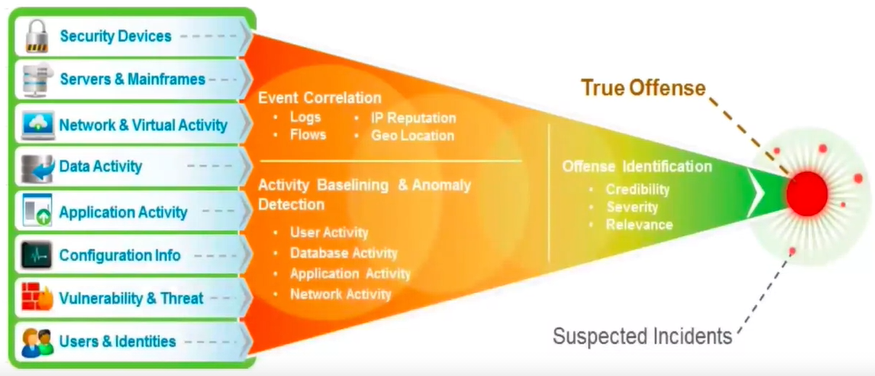
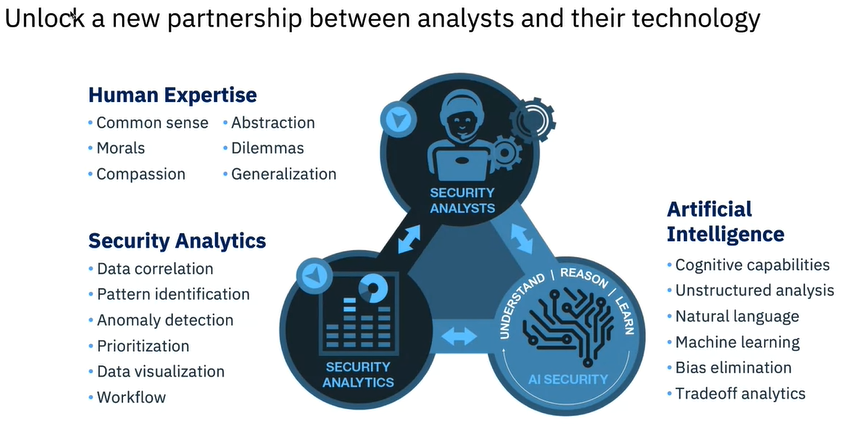
GitBook: [master] 202 pages and 2 assets modified

diff --git a/network-security/courses/ibm-cybersecurity-analyst-professional-certificate.md b/network-security/courses/ibm-cybersecurity-analyst-professional-certificate.md
@@ -1929,17 +1929,57 @@ description: Coursera Courses
 5. Captures log event and network flow data in near real time and apply advanced analytics to reveal security offenses
 6. It can be available on prem and in a cloud environment
 
-![](../../.gitbook/assets/image%20%28149%29.png)
+![](../../.gitbook/assets/image%20%28150%29.png)
 
 ![](../../.gitbook/assets/image%20%28148%29.png)
+
+![](../../.gitbook/assets/image%20%28149%29.png)
 
 * **True** or False. SIEMs capture network flow data in near real time and apply advanced analytics to reveal security offenses.
 * Which of these describes the process of data normalization in a SIEM?
   * Turns raw data into a format that has fields that SIEM can use
-* True or **False**. A SIEM considers any event that is anomalous, or outside the norm, to be an offense.
+* **True** or False. A SIEM considers any event that is anomalous, or outside the norm, to be an offense.
 * **True** or False. A large company might have QRadar event collectors in each of their data centers that are configured to forward all collected events to a central event processor for analysis.
 * The triad of a security operations centers \(SOC\) is people, process and technology. Which part of the triad would vendor-specific training belong?
   * People
+* **True** or False. Information is often overlooked simply because the security analysts do not know how it is connected.
+* The partnership between security analysts and technology can be said to be grouped into 3 domains, human expertise, security analytics and artificial intelligence. The human expertise domain would contain which three \(3\) of these topics?
+  * Morals
+  * Common sense
+  * Generalization
+* A robust cybersecurity defense includes contributions from 3 areas, human expertise, security analytics and artificial intelligence. Which of these areas would contain the ability for abstraction?
+  * Human expertise
+* **True** or False. SIEMs can be available on premises and in a cloud environment.
+* For a SIEM, what are logs of specific actions such as user logins referred to?
+  * Events
+* Which of these describes the process of data normalization in a SIEM?
+  * Indexes data records for fast searching and sorting
+* When a data stream entering a SIEM exceeds the volume it is licensed to handle, what are three \(3\) ways the excess data is commonly handled, depending upon the terms of the license agreement? \(Select 3\)
+  * **The data stream is throttled to accept only the amount allowed by the license**
+
+    **The excess data is stored in a queue until it can be processed**
+
+    **The excess data is dropped**
+
+    The data is processed and the license is automatically bumped up to the next tier.
+* Which five \(5\) event properties must match before the event will be coalesced with other events? \(Select 5\)
+  * **Destination IP**
+
+    Source Port
+
+    **Destination Port**
+
+    **Source IP**
+
+    **Username**
+
+    **QID**
+* What is the goal of SIEM tuning?
+  * To get the SIEM to sort out all false-positive offenses so only those that need to be investigated are presented to the investigators
+* True or **False**. QRadar event collectors send all raw event data to the central event processor for all data handling such as data normalization and event coalescence.
+* The triad of a security operations centers \(SOC\) is people, process and technology. Which part of the triad would containment belong?
+  * **Process**
+* **True** or False. There is a natural tendency for security analysts to choose to work on cases that they are familiar with and to ignore those that may be important but for which they have no experience.
 
 ### Threat Hunting
 
